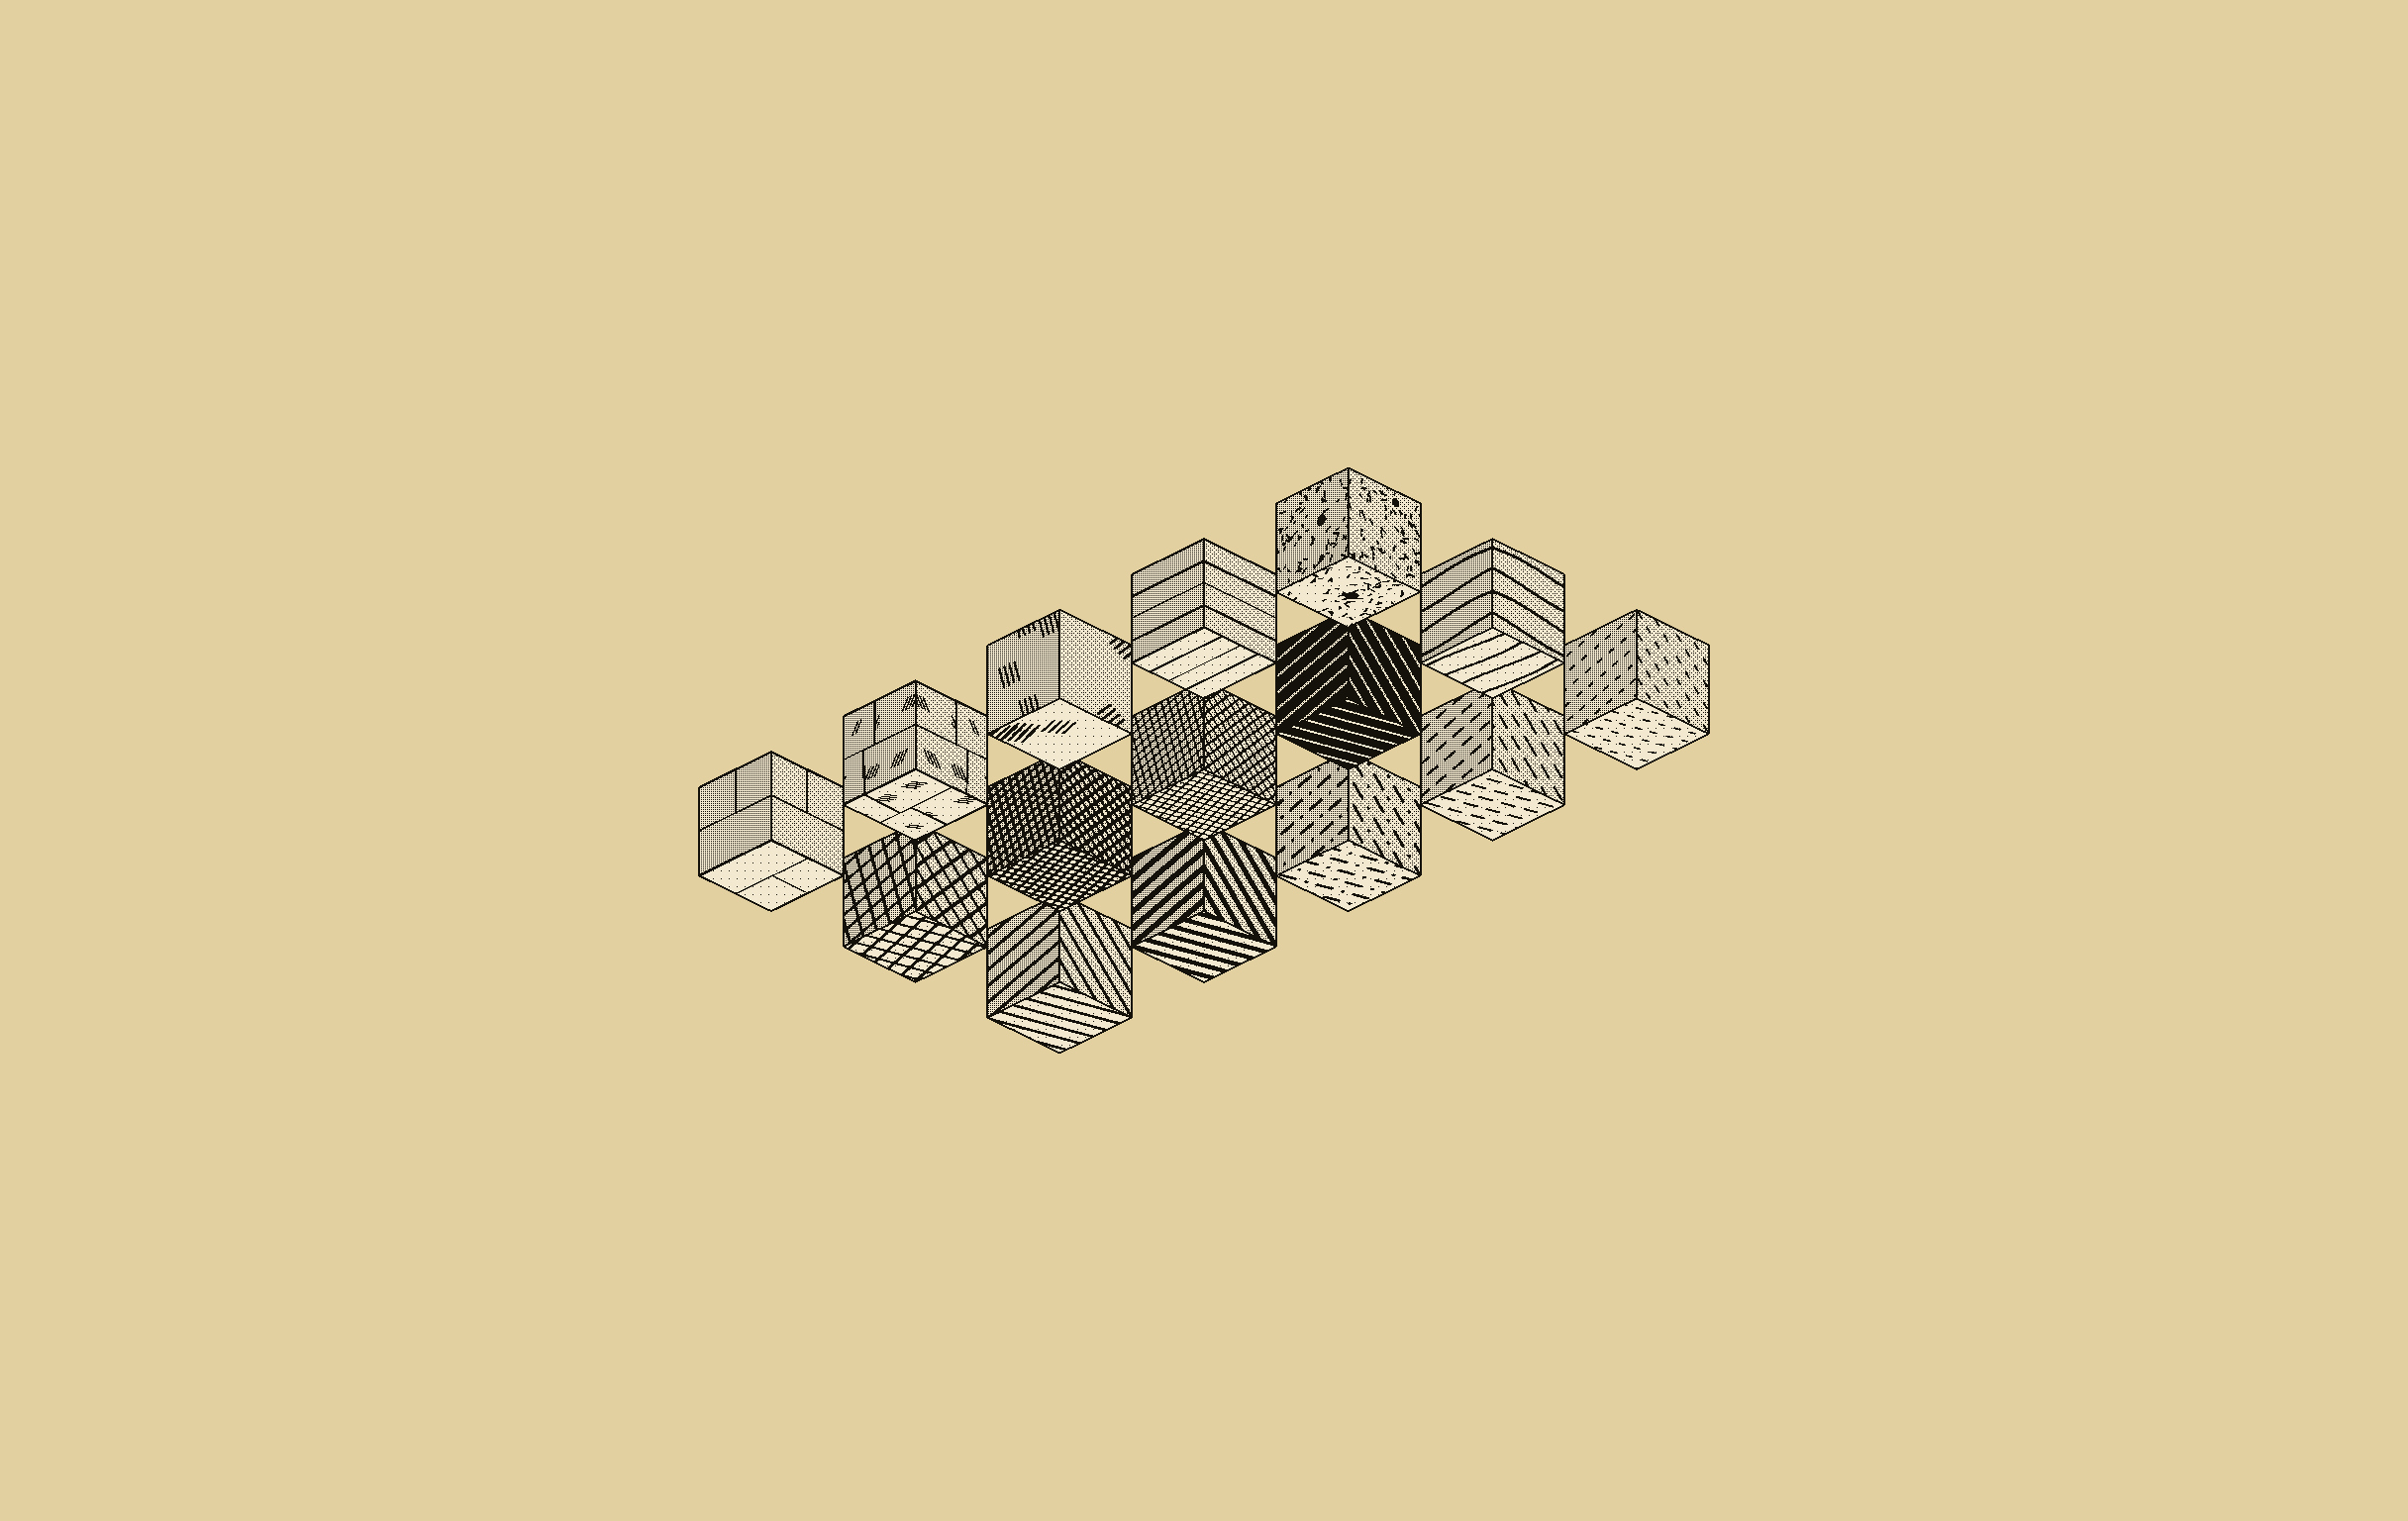
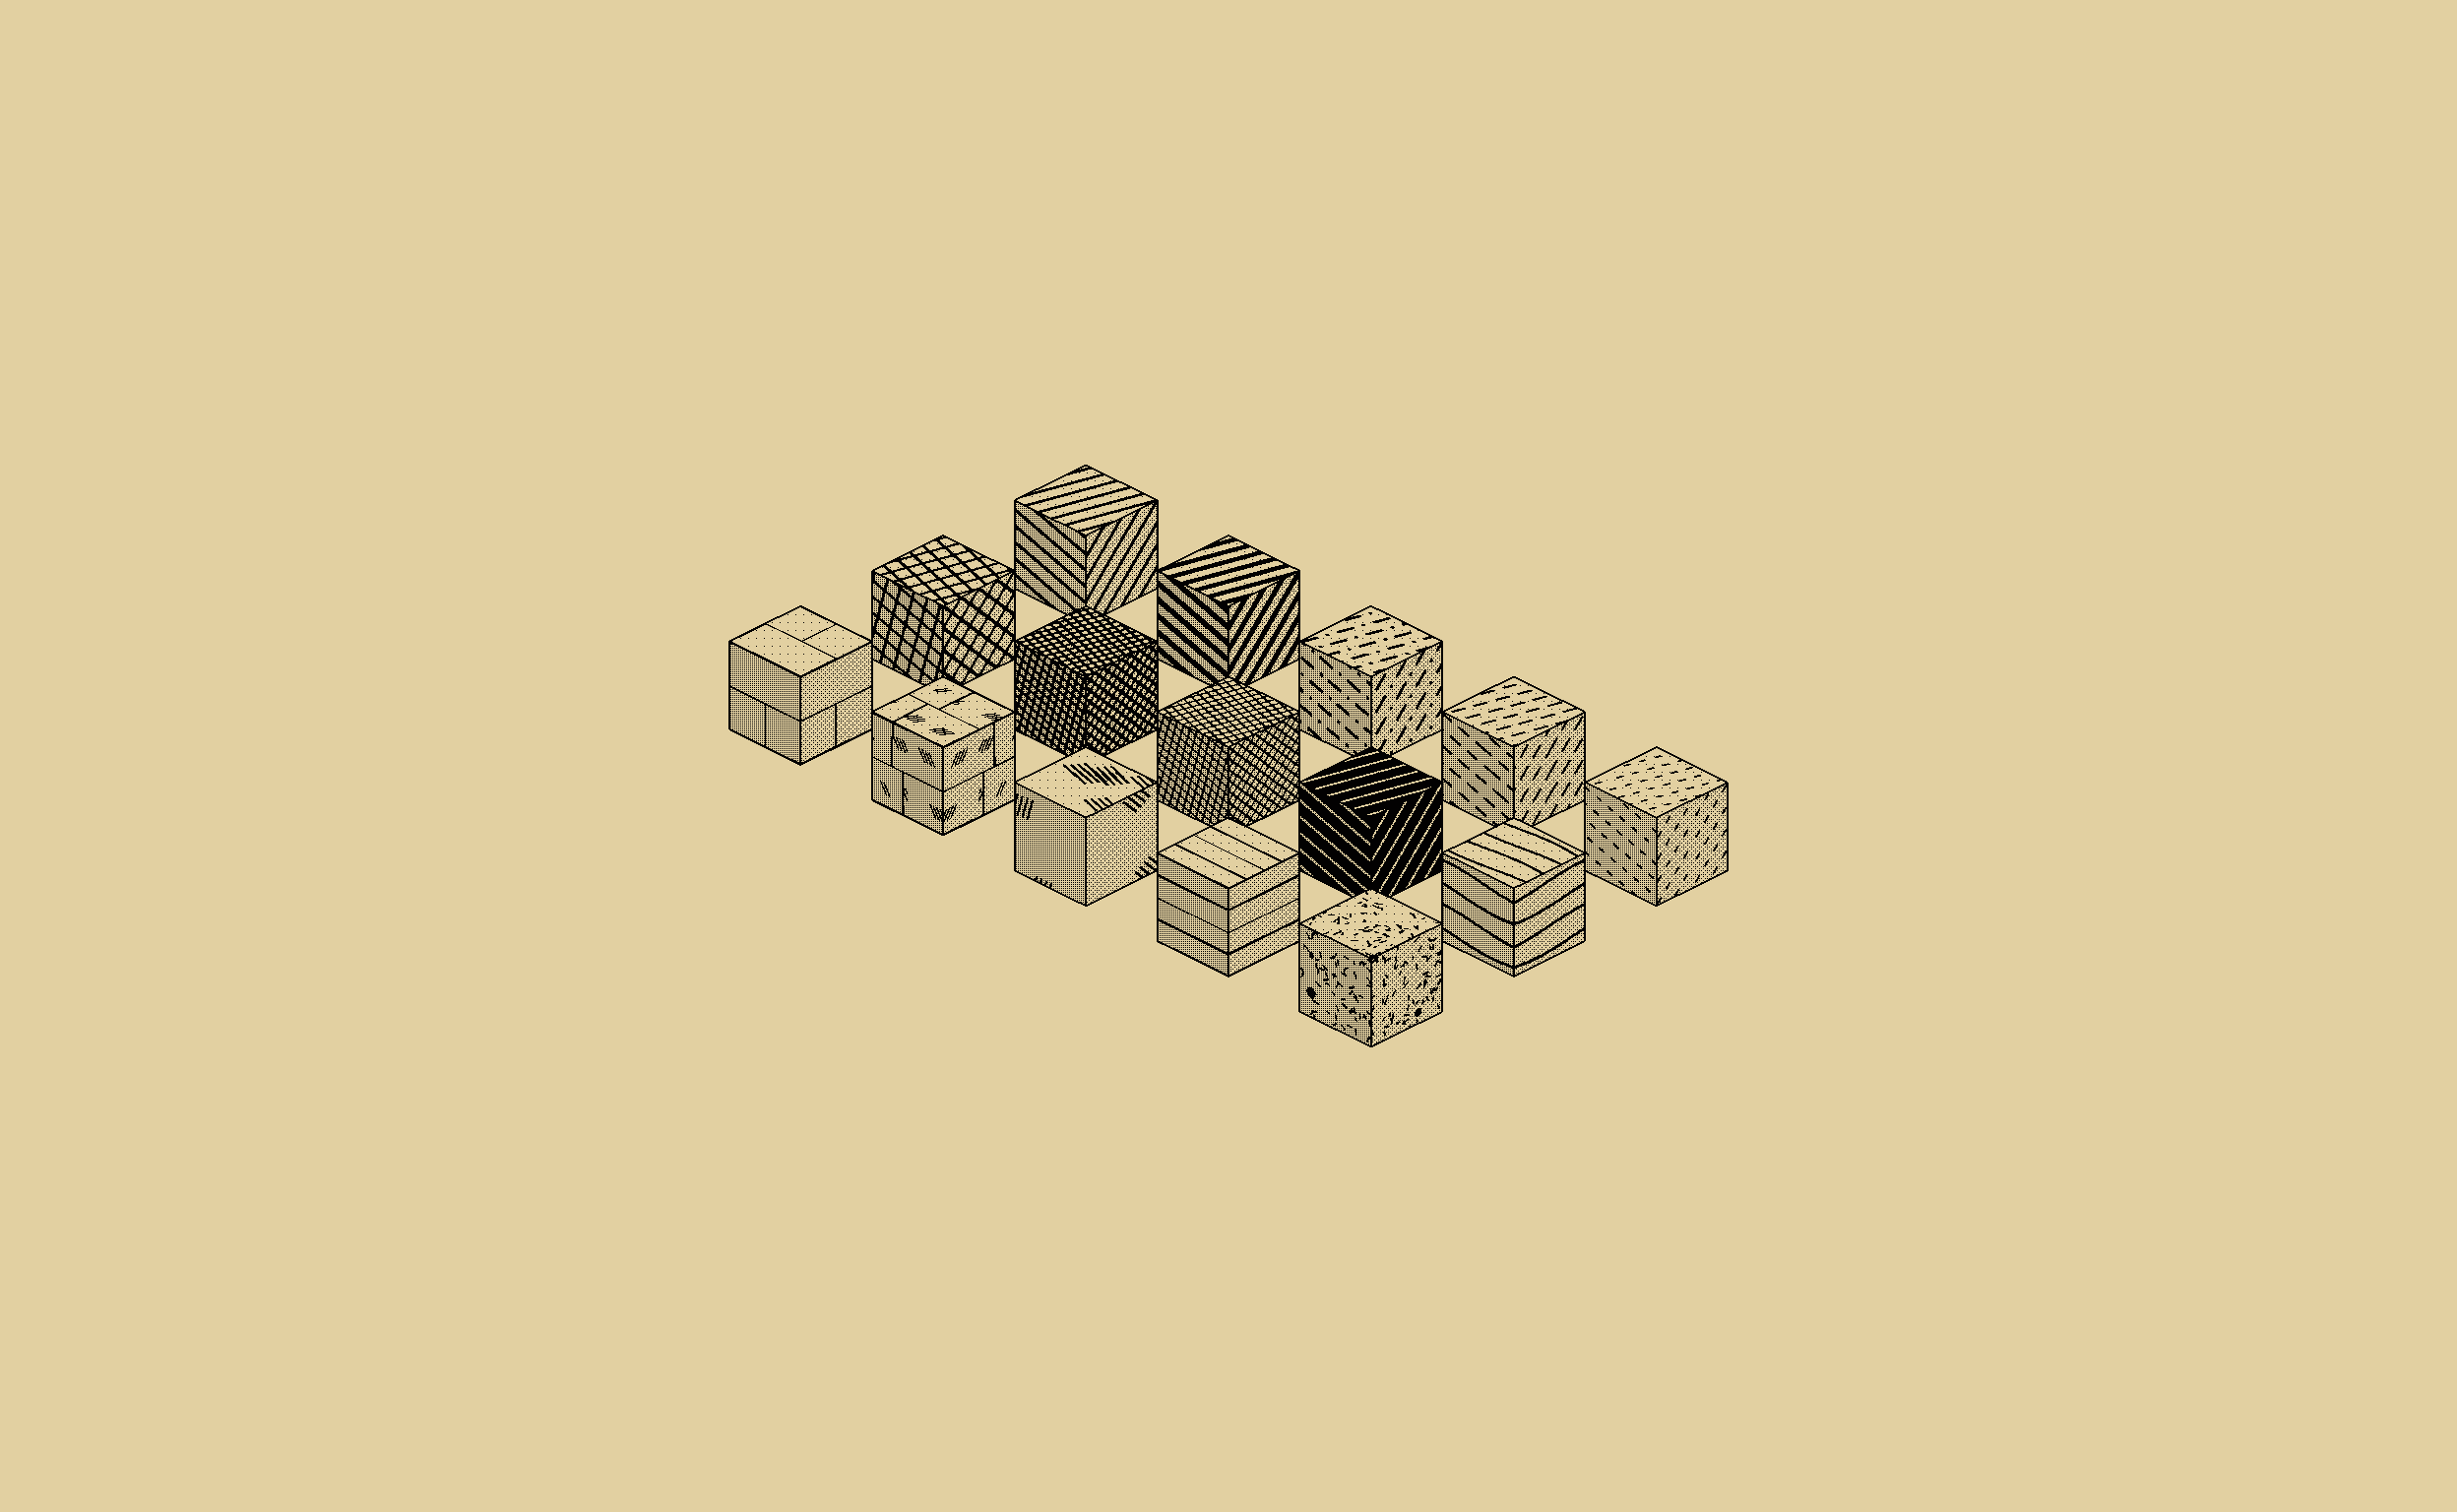
Update README

Changed region(s): [[0.2812, 0.3125, 0.7188, 0.6875]]

diff --git a/README.md b/README.md
@@ -4,10 +4,12 @@
 
 Build in 3D with the visual language of an old engineering drawing. Every block is skinned in a
 conventional draughting **cross-hatch** (cast iron, steel, brass, copper, wood, brick, stone,
-glass, and more) rendered strictly in two tones: ink on paper, or white on blueprint blue.
-Place and remove blocks, fly around, and export a clean orthographic **blueprint** of your model.
+glass, and more) rendered **strictly in two tones**. Flip the whole drawing between four sheet
+styles - **Paper** (ink on cream), **Blueprint** (white on blue), **Console** (green on black) and
+**CGA** (teal on magenta). Place, remove, chamfer and re-material blocks, fly around, and export a
+clean orthographic **blueprint** of your model.
 
-![Draft'67 in both themes, paper and blueprint, split down the middle](screenshot.png)
+![Draft'67 in all four sheet styles - paper, blueprint, console and CGA - as diagonal slices over one continuous stack of every material](screenshot.png)
 
 † - blame my kids
 
@@ -43,32 +45,44 @@ the dev server running and a one-time `npx playwright install chromium`).
 
 ## Controls
 
-**Camera:** `Tab` toggles between Orbit and First-person.
+**Camera:** `Tab` toggles between **Orbit** and **Explore** (first-person).
 
-| | Orbit | First-person |
+| | Orbit | Explore |
 |---|---|---|
 | Look | LMB drag | move mouse (click to capture) / `Arrow` keys |
 | Move | `WASD` pan (across the view plane) | `WASD` move, `Space`/`Ctrl` up-down |
 | Pan / zoom | MMB drag / scroll | n/a |
 
-**Building**
+**Edit tools** - three mutually-exclusive tools, chosen from the top-left toolbar or by key:
 
-- **LMB** places a block. **RMB** or **Shift-LMB** removes a block.
-- In first-person you can **hold** the button and sweep the crosshair (with the mouse or the arrow
-  keys) to paint a run of blocks; erasing is rate-limited so a sweep doesn't clear a whole row.
-- There's always a ground plane to place the first block on.
-- **Materials:** number keys `1 2 3 4 5 6 7 8 9 0` then `Y U I O P`, in palette order, or click a
-  swatch in the hotbar.
+- **Build** (`B`): **LMB** places, **RMB** / **Shift-LMB** removes. A faint **ghost cube** previews
+  where the next block will land. There's always a ground plane to place the first block on.
+- **Chamfer** (`C`): drag on an edge or corner to bevel it in snapped steps; **Shift-click**
+  multi-selects elements to cut together; `Esc` deselects.
+- **Paint** (`N`): click a block to re-skin it with the selected material, keeping its shape (the
+  ghost cube shows which block is targeted).
 
-**Toolbar**
+In **Explore** you can also **hold** the button and sweep the crosshair (mouse or arrow keys) to
+paint a run of blocks; erasing is rate-limited so a sweep doesn't clear a whole row.
 
-- **Orbit / First-person:** camera toggle (same as `Tab`).
-- **Blueprint:** toggle the paper / blueprint-blue theme.
-- **Preview:** enter the orthographic **blueprint preview**: grid hidden, orbit or use the
+**Materials:** number keys `1 2 3 4 5 6 7 8 9 0` then `Y U I O P`, in palette order, or click a
+swatch. **Sheet style:** `V` cycles Paper -> Blueprint -> Console -> CGA (or pick one in the menu).
+
+## Interface
+
+- **Top-left** - two icon **segmented controls**: camera (**Orbit** / **Explore**) and edit tool
+  (**Build** / **Chamfer** / **Paint**), the active one inked.
+- **Top-right menu** (the hamburger): **Preview**, **Save**, **Load**, **New**, plus a **Sheet**
+  picker (the four styles, each with a little colour preview) and a **Palette** position toggle
+  (left column on desktop, bottom bar on touch).
+- **Preview** enters the orthographic **blueprint preview**: grid hidden, orbit or use the
   **orientation cube** (click a face, or ISO) to snap to a cardinal view, then **Export PNG** a
-  1-bit blueprint of the model. **Exit** (or `Esc`) to return.
-- **Save / Load:** download / upload the model as JSON (also autosaved to `localStorage`).
-- **Clear:** remove all blocks.
+  1-bit image of the model. **Exit** (or `Esc`) to return.
+- **Save / Load / New:** download / upload the model as JSON, or clear and start over (a house-style
+  dialog confirms first). Work is autosaved to `localStorage`.
+
+The toolbar icons come from a pixel-icon web font (see below); menus and dialogs use a dithered
+1-bit drop shadow and backdrop rather than a soft blur, to keep the two-tone look.
 
 ## How it works
 
@@ -83,11 +97,20 @@ the dev server running and a one-time `npx playwright install chromium`).
 - **Outlines** come from a screen-space pass that inks edges where surface normal, depth, or
   **material id** breaks, so silhouettes, creases, and boundaries between different materials are
   drawn, but the internal seams of a merged surface are not.
-- **Theme** colours are shared shader uniforms, so one toggle recolours the whole scene live.
+- **Themes** are a tiny registry - two sRGB swatches (ink + paper) per style. The shader uniforms
+  (linearised so fills match exactly), the CSS chrome, and the menu picker all derive from it, so a
+  new sheet style is essentially one entry. Palette swatches recolour by masking a `var(--ink)` fill
+  with the material pattern, so the ink line-art follows the active theme.
 - Shaders are written in **TSL** (Three Shading Language) so a single source compiles to both WGSL
   (WebGPU) and GLSL (WebGL2).
+
+## Credits
+
+The toolbar/menu icons are a scalable web font built from **nikoichu's 1-bit Pixel Icons**
+(https://nikoichu.itch.io/pixel-icons), white pixels only, traced to pixel-accurate vector glyphs.
+The font ships in [public/iconfont/](public/iconfont/); the generator lives alongside the project.
 
 ## License
 
 Released under **[CC0 1.0 Universal](LICENSE)**: public domain, no rights reserved. Do whatever
-you like with it.
+you like with it. (The icon pack keeps its own licence - see Credits.)